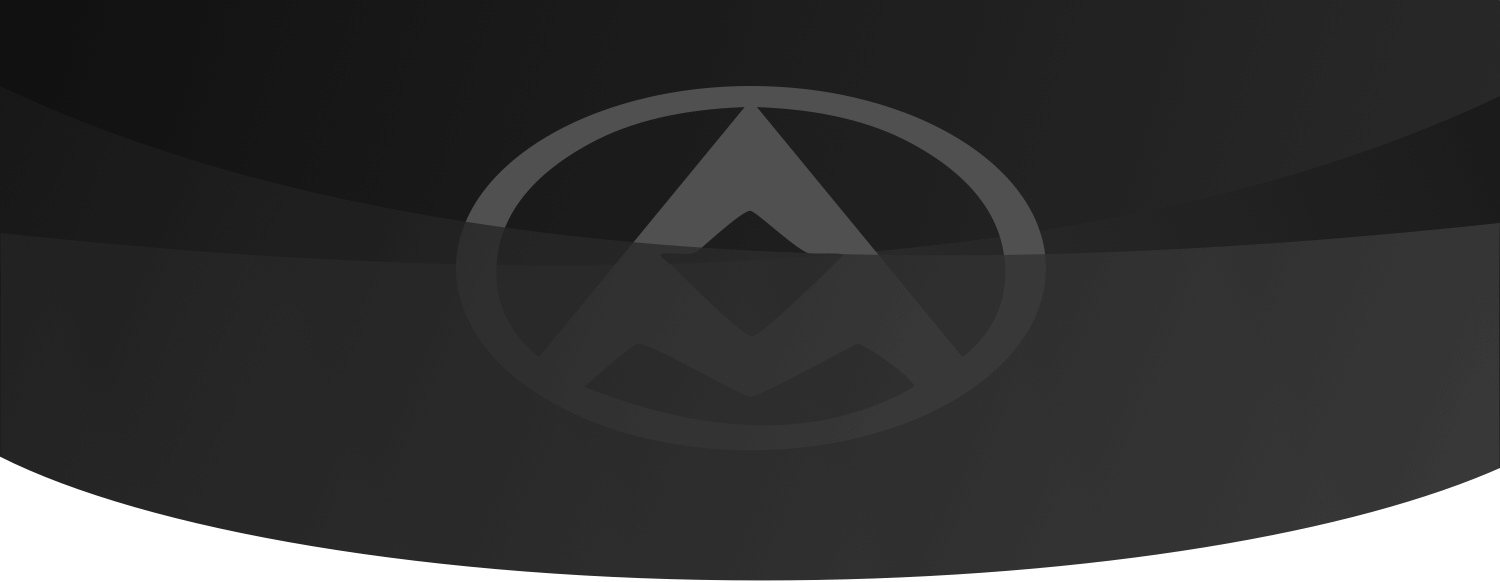
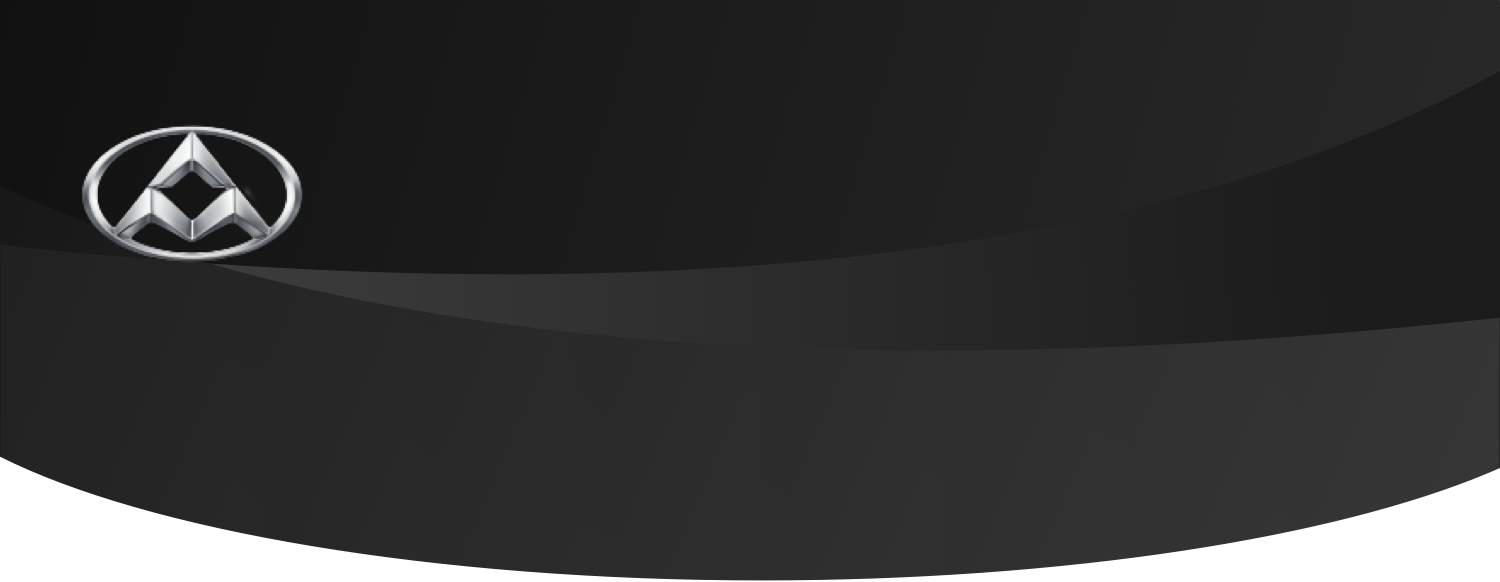
新的更新。

Changed region(s): [[0.3067, 0.1237, 0.7053, 0.4639], [0.0307, 0.2165, 0.2147, 0.4639], [0.8893, 0.3711, 1.0, 0.5876]]

diff --git a/src/shop/index.html b/src/shop/index.html
@@ -15,29 +15,35 @@
   <body>
 
 <div id='root'>
-  <div><img src='../lib/img/3_banner.png' style='height:4.06rem;' class='wp100' /></div>
+  <div>
+    <div class='tcenter white pos-abs mt30 wp100' style=''>
+      <div class="fleft ml30"><img src='../lib/img/back.png' style='height: .36rem;position: relative;top: .09rem;' /></div>
+      <span class="font34">我行购车 - 上汽大通智能选车平台</span>
+    </div>
+    <img src='../lib/img/shop_bg.png' style='height:4.06rem;' class='wp100' />
+  </div>
   <div class='pos-rel tcenter'
        style='background-image: url("../lib/img/3_bg.png"); background-size: cover; top: -2.1rem;width: calc(100% - .4rem);height:3.8rem;padding: .25rem .4rem; margin: 0 .2rem '>
     <ul>
       <li class="inline-block tcenter wp32 vtop" style="padding-top: 0.44rem;">
-        <a href='../main'>
-          <div><img src='../lib/img/wx.png' style='width: .84rem; margin-bottom: .1rem;' /></div>
-          <div class="black">微信</div>
+        <a href='tel:13761283834'>
+          <div><img src='../lib/img/sj.png' style='width: .84rem; margin-bottom: .1rem;' /></div>
+          <div class="black">手机</div>
         </a>
       </li><li class="inline-block tcenter wp32 blue vtop">
         <div><img src='../lib/img/yg.png' style='width: 1.3rem' /></div>
         <div class="black font36" style='margin-top: .1rem'><strong>嘻嘻哈哈</strong></div>
         <div class="gray font26">NO:J90090</div>
       </li><li class="inline-block tcenter wp32 vtop black " style="padding-top: 0.44rem;">
-        <a href='tel:13761283834'>
-          <div><img src='../lib/img/sj.png' style='width: .84rem; margin-bottom: .1rem;' /></div>
-          <div class="black">手机</div>
+        <a onclick='document.querySelector("#popup").className=""; document.body.style.overflow="hidden"'>
+          <div><img src='../lib/img/share.png' style='width: .84rem; margin-bottom: .1rem;' /></div>
+          <div class="black">分享</div>
         <a>
       </li>
     </ul>
   </div>
   <div class="mr30 ml30 pos-rel" style="top: -1.8rem" >
-    <img src='../lib/img/2_ad.png' class="wp100" />
+    <img src='../lib/img/4_banner.png' class="wp100" />
   </div>
 
   <div class='mr30 ml30 pos-rel' style="top: -1.3rem;padding-bottom:2rem">
@@ -48,7 +54,7 @@
       </div>
       <div class="black tcenter font36" style='margin: .5rem 0 .3rem 0'><strong>G10 PLUS 柴油豪华版</strong></div>
       <div class="red tcenter font36"><strong>229.800起</strong></div>
-      <div class='btn'>立即订购</div>
+      <div class='btn blue'>立即订购</div>
     </div>
     <div class="car-card">
       <div class="tleft"><img src='../lib/img/hot.png' style="width: 2rem"/></div>
@@ -57,7 +63,7 @@
       </div>
       <div class="black tcenter font36" style='margin: .5rem 0 .3rem 0'><strong>G10 PLUS 柴油豪华版</strong></div>
       <div class="red tcenter font36"><strong>229.800起</strong></div>
-      <div class='btn'>立即订购</div>
+      <div class='btn blue'>立即订购</div>
     </div>
   </div>
 
@@ -78,6 +84,13 @@
         </a>
       </li>
     </ul>
+  </div>
+</div>
+
+<div id='popup' class='hide' onclick="this.className = 'hide'; document.body.style.overflow = ''">
+  <div id='mask'></div>
+  <div id='layer' class="tcenter" >
+    <img src='../lib/img/share_bg.png' class='wp100' />
   </div>
 </div>
 

diff --git a/src/mine/index.html b/src/mine/index.html
@@ -15,18 +15,23 @@
   <body style="overflow: hidden">
 
 <div id='root'>
-  <div><img src='../lib/img/3_banner.png' style='height:4.06rem' class='wp100' /></div>
+  <div>
+    <div class='msg' ><div class='badge'></div></div>
+    <img src='../lib/img/3_banner.png' class='wp100' />
+  </div>
   <div class='pos-rel tcenter'
-       style='background-image: url("../lib/img/3_bg.png"); background-size: cover; top: -2.1rem;width: calc(100% - .4rem);height:3.8rem;padding: .25rem .4rem; margin: 0 .2rem '>
+       style='top: -.9rem;width: calc(100% - .4rem);height:3.8rem;padding: .25rem .4rem; margin: 0 .2rem '>
     <div class=""><img src='../lib/img/yg.png' style='width: 1.1rem' /></div>
     <div class="black font36" style='margin-top: .1rem'><strong>嘻嘻哈哈</strong></div>
     <div class="gray">NO:J90090</div>
-    <div class='tleft font36'><strong>完善信息</strong></div>
-    <div class="gray tleft">保存信息，以便更加便捷、精准的联系您~</div>
   </div>
 
-  <div class="pos-rel" style="top: -1.5rem">
+  <div class="pos-rel" style="top: -1.8rem; padding:0 .5rem">
     <ul>
+      <li class="inline-block tcenter black wp32" style="vertical-align: top">
+        <div><img src='../lib/img/info.png' style='width: .44rem; margin-bottom: .1rem;' /></div>
+        <div>完善信息</div>
+      </li>
       <li class="inline-block tcenter black wp32" style="vertical-align: top">
         <div><img src='../lib/img/wd.png' style='width: .44rem; margin-bottom: .1rem;' /></div>
         <div>交车网点</div>
@@ -36,19 +41,19 @@
         <div>产品介绍</div>
       </li>
       <li class="inline-block tcenter black wp32" style="vertical-align: top">
-        <div><img src='../lib/img/qa.png' style='width: .44rem; margin-bottom: .1rem;' /></div>
+        <div><img src='../lib/img/qa.png' style='width: .44rem; margin-bottom: .1rem; margin-top: .8rem' /></div>
         <div>Q&A</div>
       </li>
-      <li class="inline-block tcenter black wp32" style="vertical-align: top; margin-top: 1.02rem">
+      <li class="inline-block tcenter black wp32" style="vertical-align: top; margin-top: .8rem">
         <div><img src='../lib/img/yijian.png' style='width: .44rem; margin-bottom: .1rem;' /></div>
         <div>意见反馈</div>
       </li>
-      <li class="inline-block tcenter black wp33" style="vertical-align: top; margin-top: 1.02rem">
+      <li class="inline-block tcenter black wp33" style="vertical-align: top; margin-top: .8rem">
         <div><img src='../lib/img/about.png' style='width: .44rem; margin-bottom: .1rem;' /></div>
         <div>关于我们</div>
       </li>
-      <li class="inline-block tcenter black wp32" style="vertical-align: top; margin-top: 1.02rem">
-        <div><img src='../lib/img/qa.png' style='width: .44rem; margin-bottom: .1rem;' /></div>
+      <li class="inline-block tcenter black wp32" style="vertical-align: top; margin-top: .8rem">
+        <div><img src='../lib/img/kf.png' style='width: .44rem; margin-bottom: .1rem;' /></div>
         <div>客服中心</div>
       </li>
     </ul>

diff --git a/src/main/index.html b/src/main/index.html
@@ -15,7 +15,10 @@
   <body style="overflow: hidden">
 
 <div id='root'>
-  <div><img src='../lib/img/2_banner.png' style='height:4.06rem;' class='wp100' /></div>
+  <div>
+    <div class='msg' ><div class='badge'></div></div>
+    <img src='../lib/img/2_banner.png' style='height:4.06rem;' class='wp100' />
+  </div>
   <div class='radius10 pos-rel ml30 mr30 bg-w' style='top: -50px;width: calc(100% - .6rem);box-shadow: 0px 10px 34px 1px rgba(80,140,238,0.13);height:2.6rem;padding: .47rem .8rem; '>
     <div class='inline-block' style='width:48%'>
       <a href='../customer'>
@@ -25,7 +28,7 @@
     </div>
     <div class='inline-block' style='width:48%'>
       <a href='../guide'>
-        <div class='tcenter mb30'><img src='../lib/img/2_user.png' style='width:1rem' /></div>
+        <div class='tcenter mb30'><img src='../lib/img/guide.png' style='width:1rem' /></div>
         <div class='tcenter black'>新手指引</div>
       </a>
     </div>

diff --git a/src/lib/css/common.css b/src/lib/css/common.css
@@ -7,6 +7,9 @@
 .red {
   color: #f44a43;
 }
+.white {
+  color: #fff;
+}
 .bg-w {
   background-color: #fff
 }
@@ -32,6 +35,11 @@
   background-size: 101% 100%;
   padding-bottom: 0.15rem;
   background-position: 0.05rem;
+}
+.btn.blue {
+  background-image: url('../img/btn_bg_b.png');
+  background-position: 0;
+  background-size: 100% 100%;
 }
 .tcenter {
   text-align: center;
@@ -160,4 +168,25 @@
 
 .step {
   padding: .1rem .3rem; color: #828a92; background-color:#f7f9fb;
+}
+.msg {
+  position: absolute;
+  right: .3rem;
+  top: .3rem;
+  width: .32rem;
+  height: .35rem;
+  background-image: url('../img/msg_w.png');
+  background-size: cover;
+}
+.msg.bg_black {
+  background-image: url('../img/msg_b.png');
+}
+.msg .badge {
+  border-radius: 100%;
+  width: .16rem;
+  height: .16rem;
+  background-color: #f44a43;
+  position: absolute;
+  right: -.04rem;
+  top: -.04rem;
 }

diff --git a/src/customer-info/index.html b/src/customer-info/index.html
@@ -16,6 +16,7 @@
 
 <div id='root'>
   <div class="tcenter m30">
+    <div class='msg bg_black' ><div class='badge'></div></div>
     <a href='../main'><img src='../lib/img/home.png' class="fleft" style="width: .38rem" /></a>
     <strong class="font36">客户详情</strong>
   </div>
@@ -30,7 +31,14 @@
     </div>
     <div class='info'>
       <div class="key">手机号</div>
-      <div class="val"><a href='tel:13761283834' style='color: #828a92'>13761283834</a></div>
+      <div class="val">
+        <a href='tel:13761283834' style='color: #828a92'>
+          <span>
+            <img class='pos-rel' src='../lib/img/tel.png' style='width: .32rem; top: .07rem;margin-right: .12rem;' />
+          </span>
+          <span>13761283834</span>
+        </a>
+      </div>
     </div>
     <div class='info'>
       <div class="key">所在城市</div>

diff --git a/src/customer-form/index.html b/src/customer-form/index.html
@@ -16,6 +16,7 @@
 
 <div id='root'>
   <div class="tcenter m30">
+    <div class='msg bg_black' ><div class='badge'></div></div>
     <a href='../main'><img src='../lib/img/home.png' class="fleft" style="width: .38rem" /></a>
     <strong class="font36">完善信息</strong>
   </div>
@@ -66,8 +67,12 @@
       </div>
     </div>
     <div class='info'>
+      <div class="key">银行卡号</div>
+      <div class="val"><input type='text' placeholder='请输入' /></div>
+    </div>
+    <div class='info'>
       <div class="key">开户行信息：</div>
-      <div class="val"><input type='text' placeholder='例如：16号楼427号' /></div>
+      <div class="val"><input type='text' placeholder='请输入' /></div>
     </div>
   </div>
   <div class='btn' style='margin: 1rem .3rem' onclick='alert("提交成功")'>

diff --git a/src/guide/index.html b/src/guide/index.html
@@ -16,6 +16,7 @@
 
 <div id='root' style='height:100%; background-color:#222430'>
   <div class="tcenter bg-w" style="padding: .3rem">
+    <div class='msg bg_black' ><div class='badge'></div></div>
     <a href='../main'><img src='../lib/img/home.png' class="fleft" style="width: .38rem" /></a>
     <strong class="font36">新手指引</strong>
   </div>

diff --git a/src/customer/index.html b/src/customer/index.html
@@ -16,6 +16,7 @@
 
 <div id='root'>
   <div class="tcenter m30">
+    <div class='msg bg_black' ><div class='badge'></div></div>
     <a href='../main'><img src='../lib/img/home.png' class="fleft" style="width: .38rem" /></a>
     <strong class="font36">我的客户</strong>
   </div>

diff --git a/src/shop/style.css b/src/shop/style.css
@@ -5,3 +5,12 @@
 .car-card .btn {
   width:3.4rem;margin: .64rem auto
 }
+
+
+#layer {
+  position: absolute;
+  right: .5rem;
+  top: 1rem;
+  z-index: 9;
+  width: 70%;
+}
